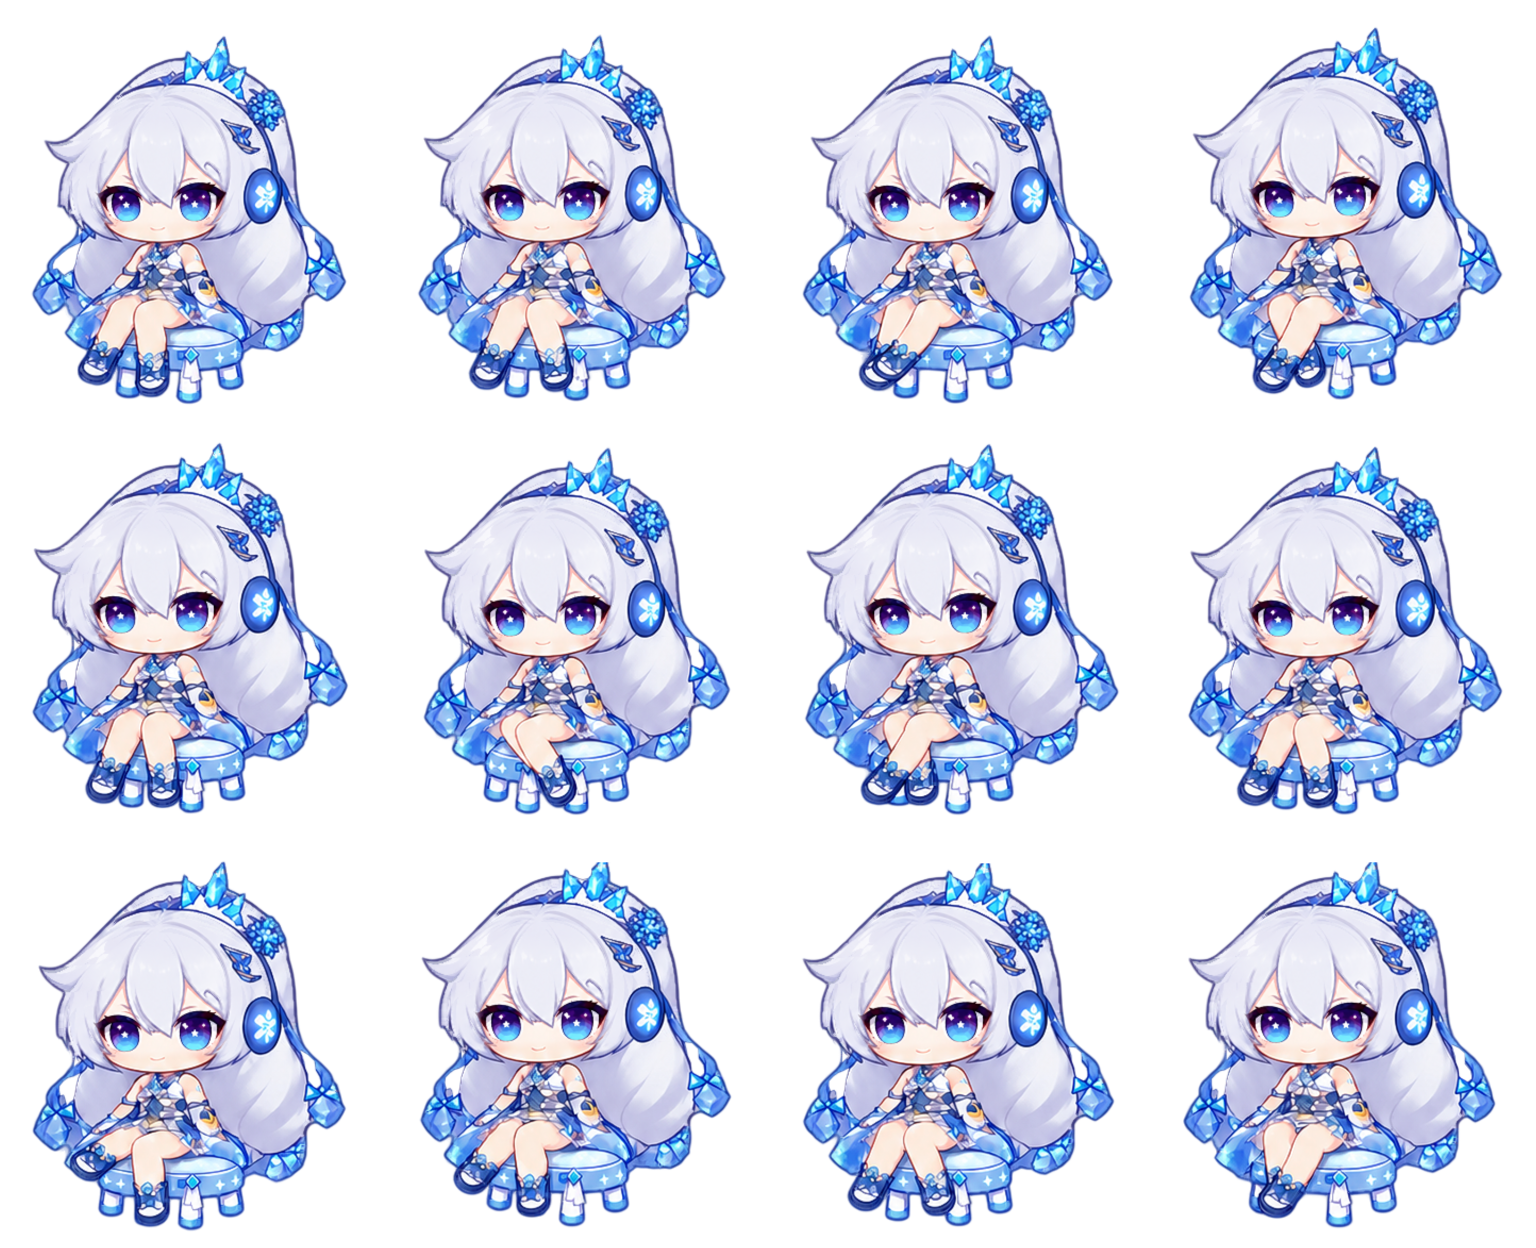
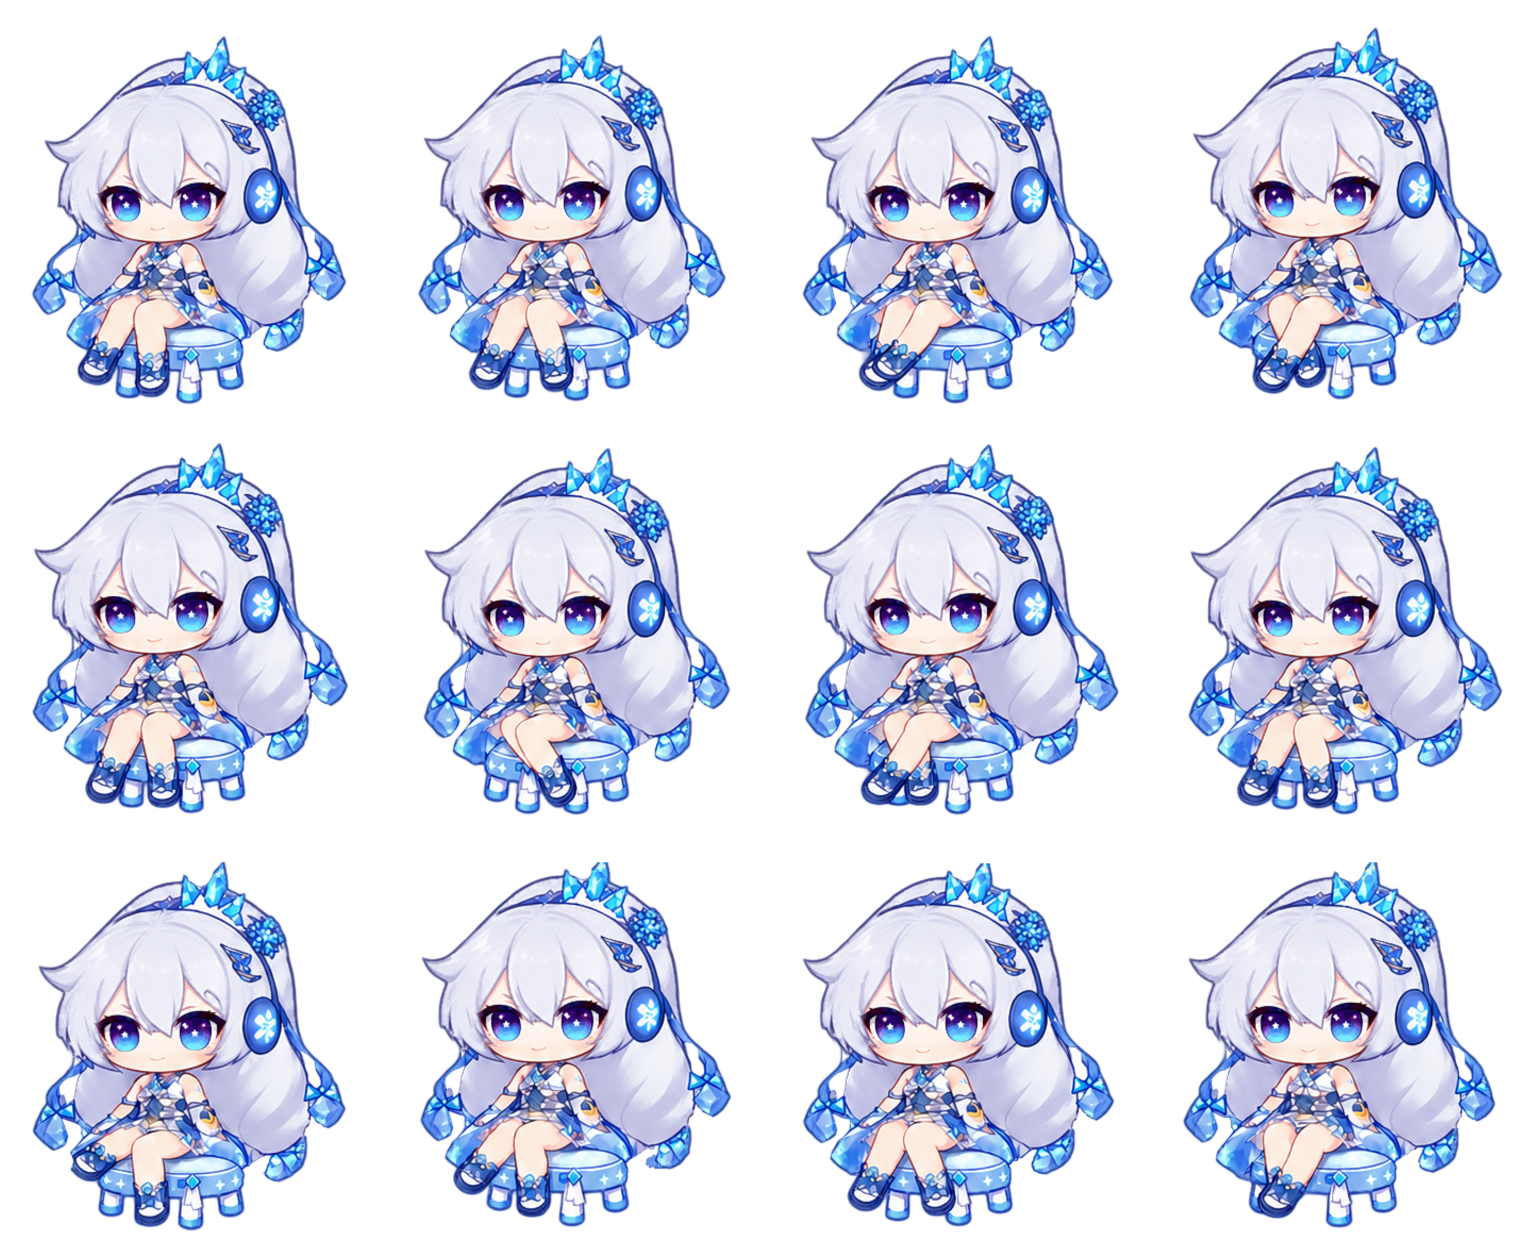
Restore transparent gaps at the Winter Wish seated ponytail tips

diff --git a/source/Maintenance.cs b/source/Maintenance.cs
@@ -4,7 +4,7 @@ namespace KianaPet {
  public sealed class PackageManifest {public int schema;public string product,version;public PackageEntry[] files;}
  public sealed class PreparedUpdate {public string Folder,Version,Notes;public PackageManifest Manifest;}
  public static class Maintenance {
-  public const string Version="0.9.15";
+  public const string Version="0.9.16";
   public static bool RuntimeFile(string path){return Regex.IsMatch(path,@"^(assets/|licenses/|docs/demo/|docs/(?:music-animations|toolbar-styles|optional-connections)\.md$|docs/music-generation-\d+\.\d+\.\d+\.json$|KianaHookReceiver\.exe(?:\.config)?$|KianaDesktopPet\.exe(?:\.config)?$|tools/(?:Send-TaskNotice|Invoke-TaskWithNotice)\.ps1$|docs/companion-features\.md$|README\.md$|CHANGELOG\.md$|ASSET_NOTICE\.md$|LICENSE$|update-worker\.ps1$)");}
   public static string SafePath(string root,string relative){if(string.IsNullOrWhiteSpace(relative)||relative.Contains(":")||relative.Contains("\\")||relative.StartsWith("/")||relative.Split('/').Any(p=>p==".."||p=="."||p.Length==0)||relative.Split('/').Any(p=>p.EndsWith(".")||p.EndsWith(" ")))throw new Exception("安装包包含无效路径。");string prefix=Path.GetFullPath(root).TrimEnd(Path.DirectorySeparatorChar)+Path.DirectorySeparatorChar;string target=Path.GetFullPath(Path.Combine(root,relative));if(!target.StartsWith(prefix,StringComparison.OrdinalIgnoreCase))throw new Exception("文件超出安装范围。");return target;}
   public static string Hash(Stream stream){using(var sha=SHA256.Create())return BitConverter.ToString(sha.ComputeHash(stream)).Replace("-","").ToLowerInvariant();}

diff --git a/README.md b/README.md
@@ -2,6 +2,10 @@
 
 ## 效果演示
 
+### 冬祈新愿的坐姿发尾（0.9.16）
+
+冬祈新愿的原版坐姿、头部轻晃和侧向点头已恢复两侧发尾的透明空隙。放大画面可以看到左侧冰晶与裙边、右侧马尾晶饰与椅面之间透出的桌面底色。[查看头部轻晃的动态对照](docs/demo/winter-tail-0.9.16.png)
+
 ### 坐姿的鞋面与透明留白（0.9.15）
 
 时砾逐光的三种坐姿按前期画稿重画鞋尖花纹和小珠。冬祈新愿的轻晃与侧向点头恢复了椅脚和鞋边的留白，并逐帧校准三种坐姿的马尾飘带与发顶边缘。[查看实际动画的局部前后对照](docs/demo/seated-details-0.9.15.png)
@@ -70,7 +74,7 @@
 git clone https://github.com/FeiyangHong/Kiana-Desktop-Pet.git
 cd Kiana-Desktop-Pet
 .\build-release.ps1
-.\dist\Kiana-Desktop-Pet-0.9.15-Windows\install.ps1 -InstallRoot 'E:\Kiana-Desktop-Pet\runtime\KianaDesktopPet'
+.\dist\Kiana-Desktop-Pet-0.9.16-Windows\install.ps1 -InstallRoot 'E:\Kiana-Desktop-Pet\runtime\KianaDesktopPet'
 ```
 
 `-InstallRoot` 可改为本机希望保存程序、设置与日志的目录；ChatGPT 平滑联动组件会装在其同级的 `KianaSmoothPet`。首次启动桌宠请使用安装器生成的“琪亚娜桌宠”快捷方式。另一台电脑拉取更新后重新构建、安装即可；本机设置会保留并在更新前备份。

diff --git a/CHANGELOG.md b/CHANGELOG.md
@@ -1,3 +1,8 @@
+# 0.9.16 · 冬祈新愿坐姿发尾留白
+
+- 清除三种坐姿中连接冰晶、裙边和椅面的灰蓝残色。按每帧发尾与晶饰的交界修整透明边缘，并单独核对侧向点头两端的遮挡。
+- 增加头部轻晃在浅色、深色背景下的局部动态对照。
+
 # 0.9.15 · 冬祈新愿坐姿留白与时砾逐光鞋面
 
 - 冬祈新愿三种坐姿分别修复马尾与晶饰飘带之间的透明空隙，收窄晶冠尖角间与发顶的外缘。按原版坐姿每一帧的椅脚与鞋边，校准头部轻晃和侧向点头的下方留白。
